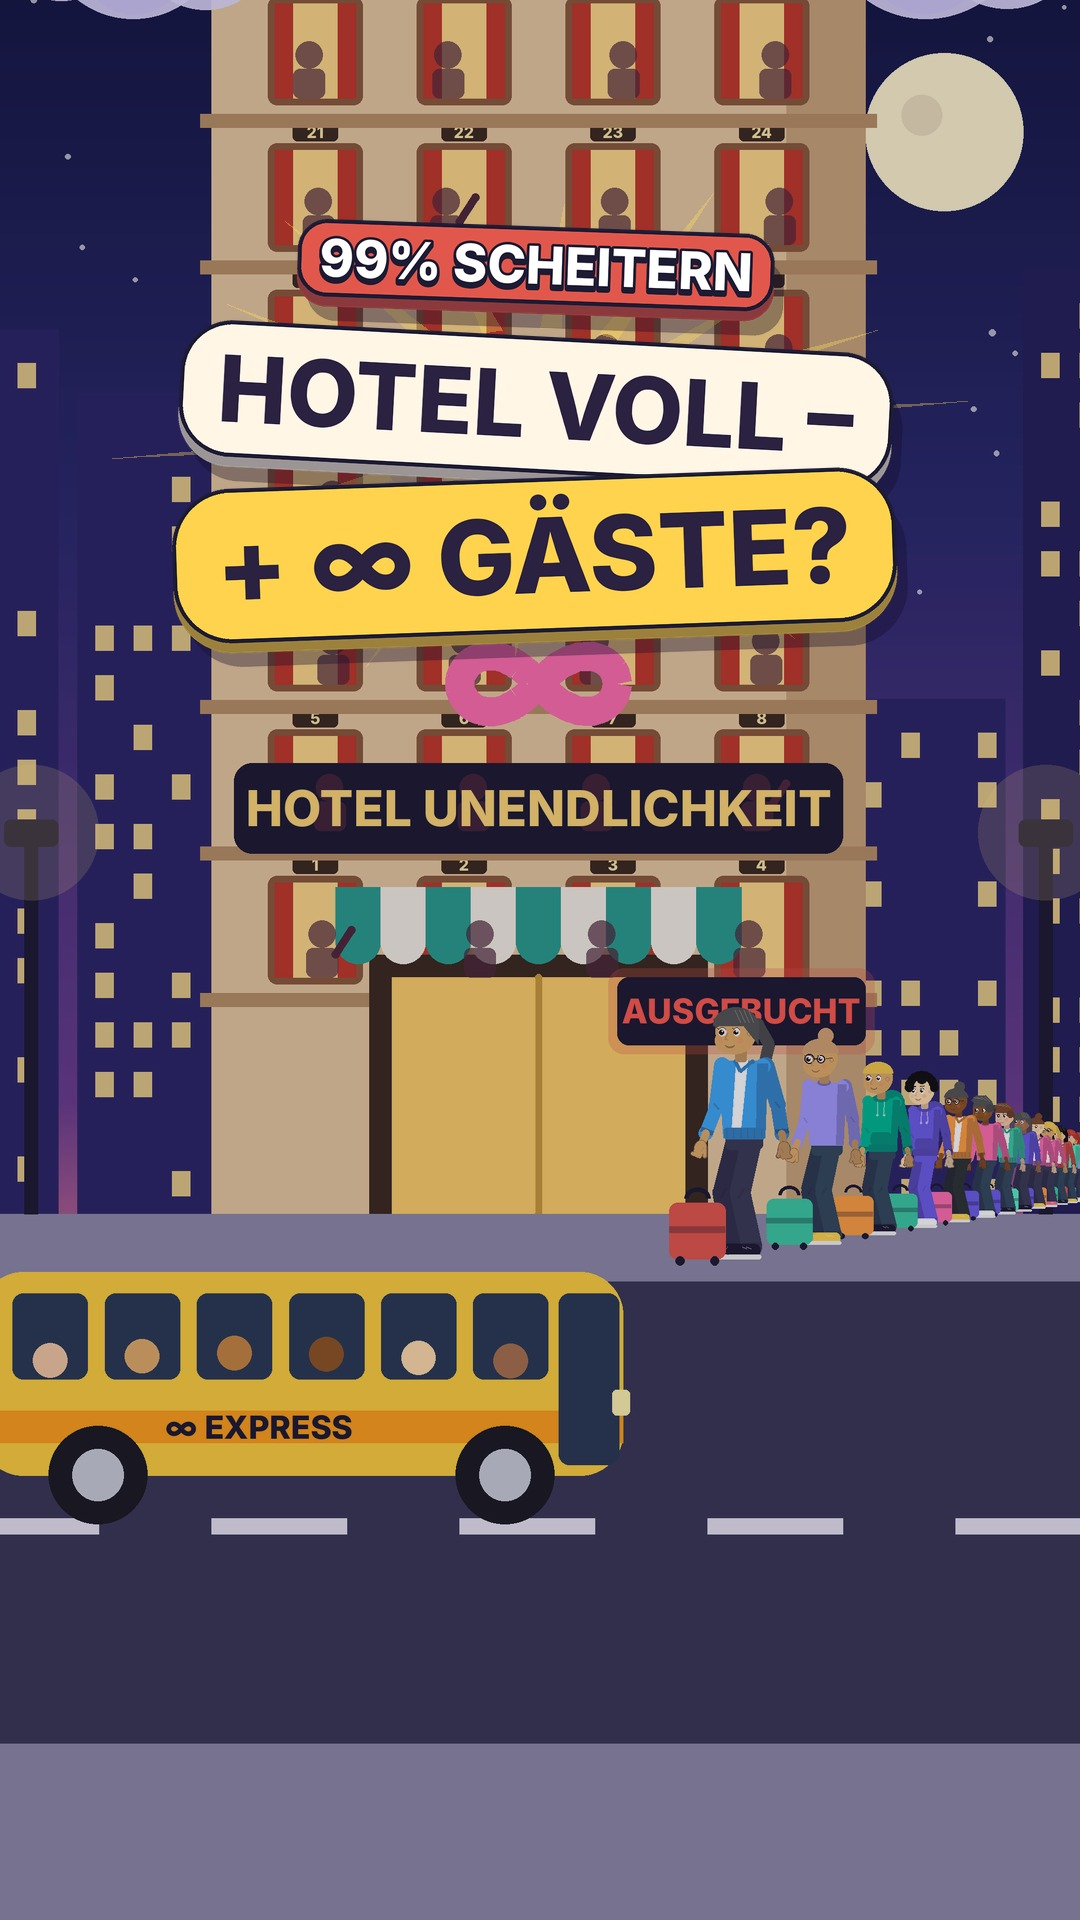
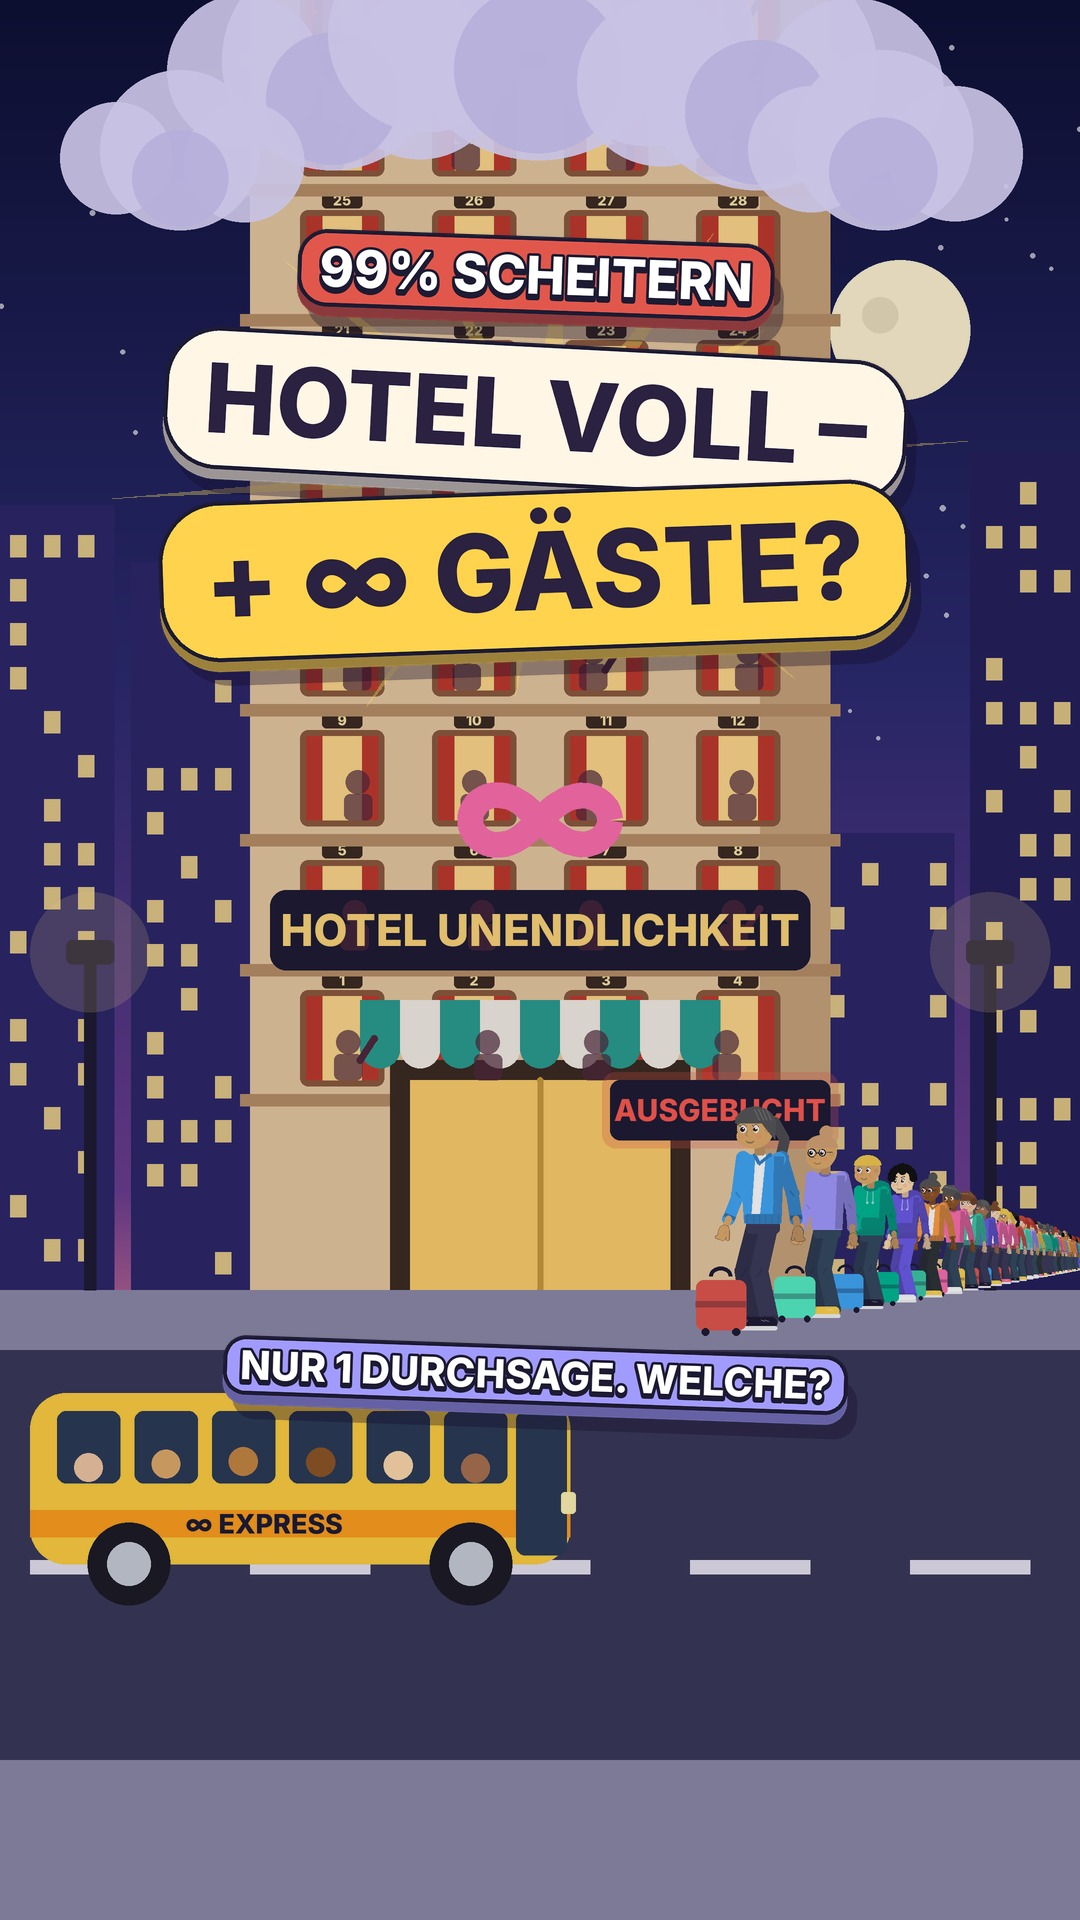
Rätsel #8: neues Thumbnail (ganzer Turm in den Wolken) und Beschreibung
Claude-Session: https://claude.ai/code/session_01McNdgYWSkicRk1pCfdiRPe

diff --git a/videos/08_hilbert_hotel/make_cover_viral.py b/videos/08_hilbert_hotel/make_cover_viral.py
@@ -13,14 +13,15 @@ def cover():
     t = 0.3
 
     def ex(cv):
-        mv.bus(cv, 330, 1560, 0.95, t)
-        mv.queue(cv, t, 1.0, x_start=720)
-    img, _ = mv.street_scene(t, (540, 1060, 1700), ex, people=False)
-    img = mv.dim(img, 0.18)
-    burst(img, 540, 430, 0.45, t, 170, 430)
-    pill3d(img, 540, 280, "99% SCHEITERN", 52, bg="#e2574c", fg="#ffffff", rot=-2)
-    pill3d(img, 540, 420, "HOTEL VOLL –", 92, bg="#fff6e6", rot=-3)
-    pill3d(img, 540, 570, "+ ∞ GÄSTE?", 104, bg="#ffd34d", rot=2)
+        mv.bus(cv, 300, 1600, 0.9, t)
+        mv.queue(cv, t, 1.0, x_start=760)
+    img, _ = mv.street_scene(t, (540, 960, 1920), ex, people=False)
+    img = mv.dim(img, 0.12)
+    burst(img, 540, 470, 0.45, t, 170, 430)
+    pill3d(img, 540, 290, "99% SCHEITERN", 52, bg="#e2574c", fg="#ffffff", rot=-2)
+    pill3d(img, 540, 430, "HOTEL VOLL –", 96, bg="#fff6e6", rot=-3)
+    pill3d(img, 540, 585, "+ ∞ GÄSTE?", 108, bg="#ffd34d", rot=2)
+    pill3d(img, 540, 1390, "NUR 1 DURCHSAGE. WELCHE?", 46, bg="#a29bfe", fg="#ffffff", rot=-2)
     return img
 
 
